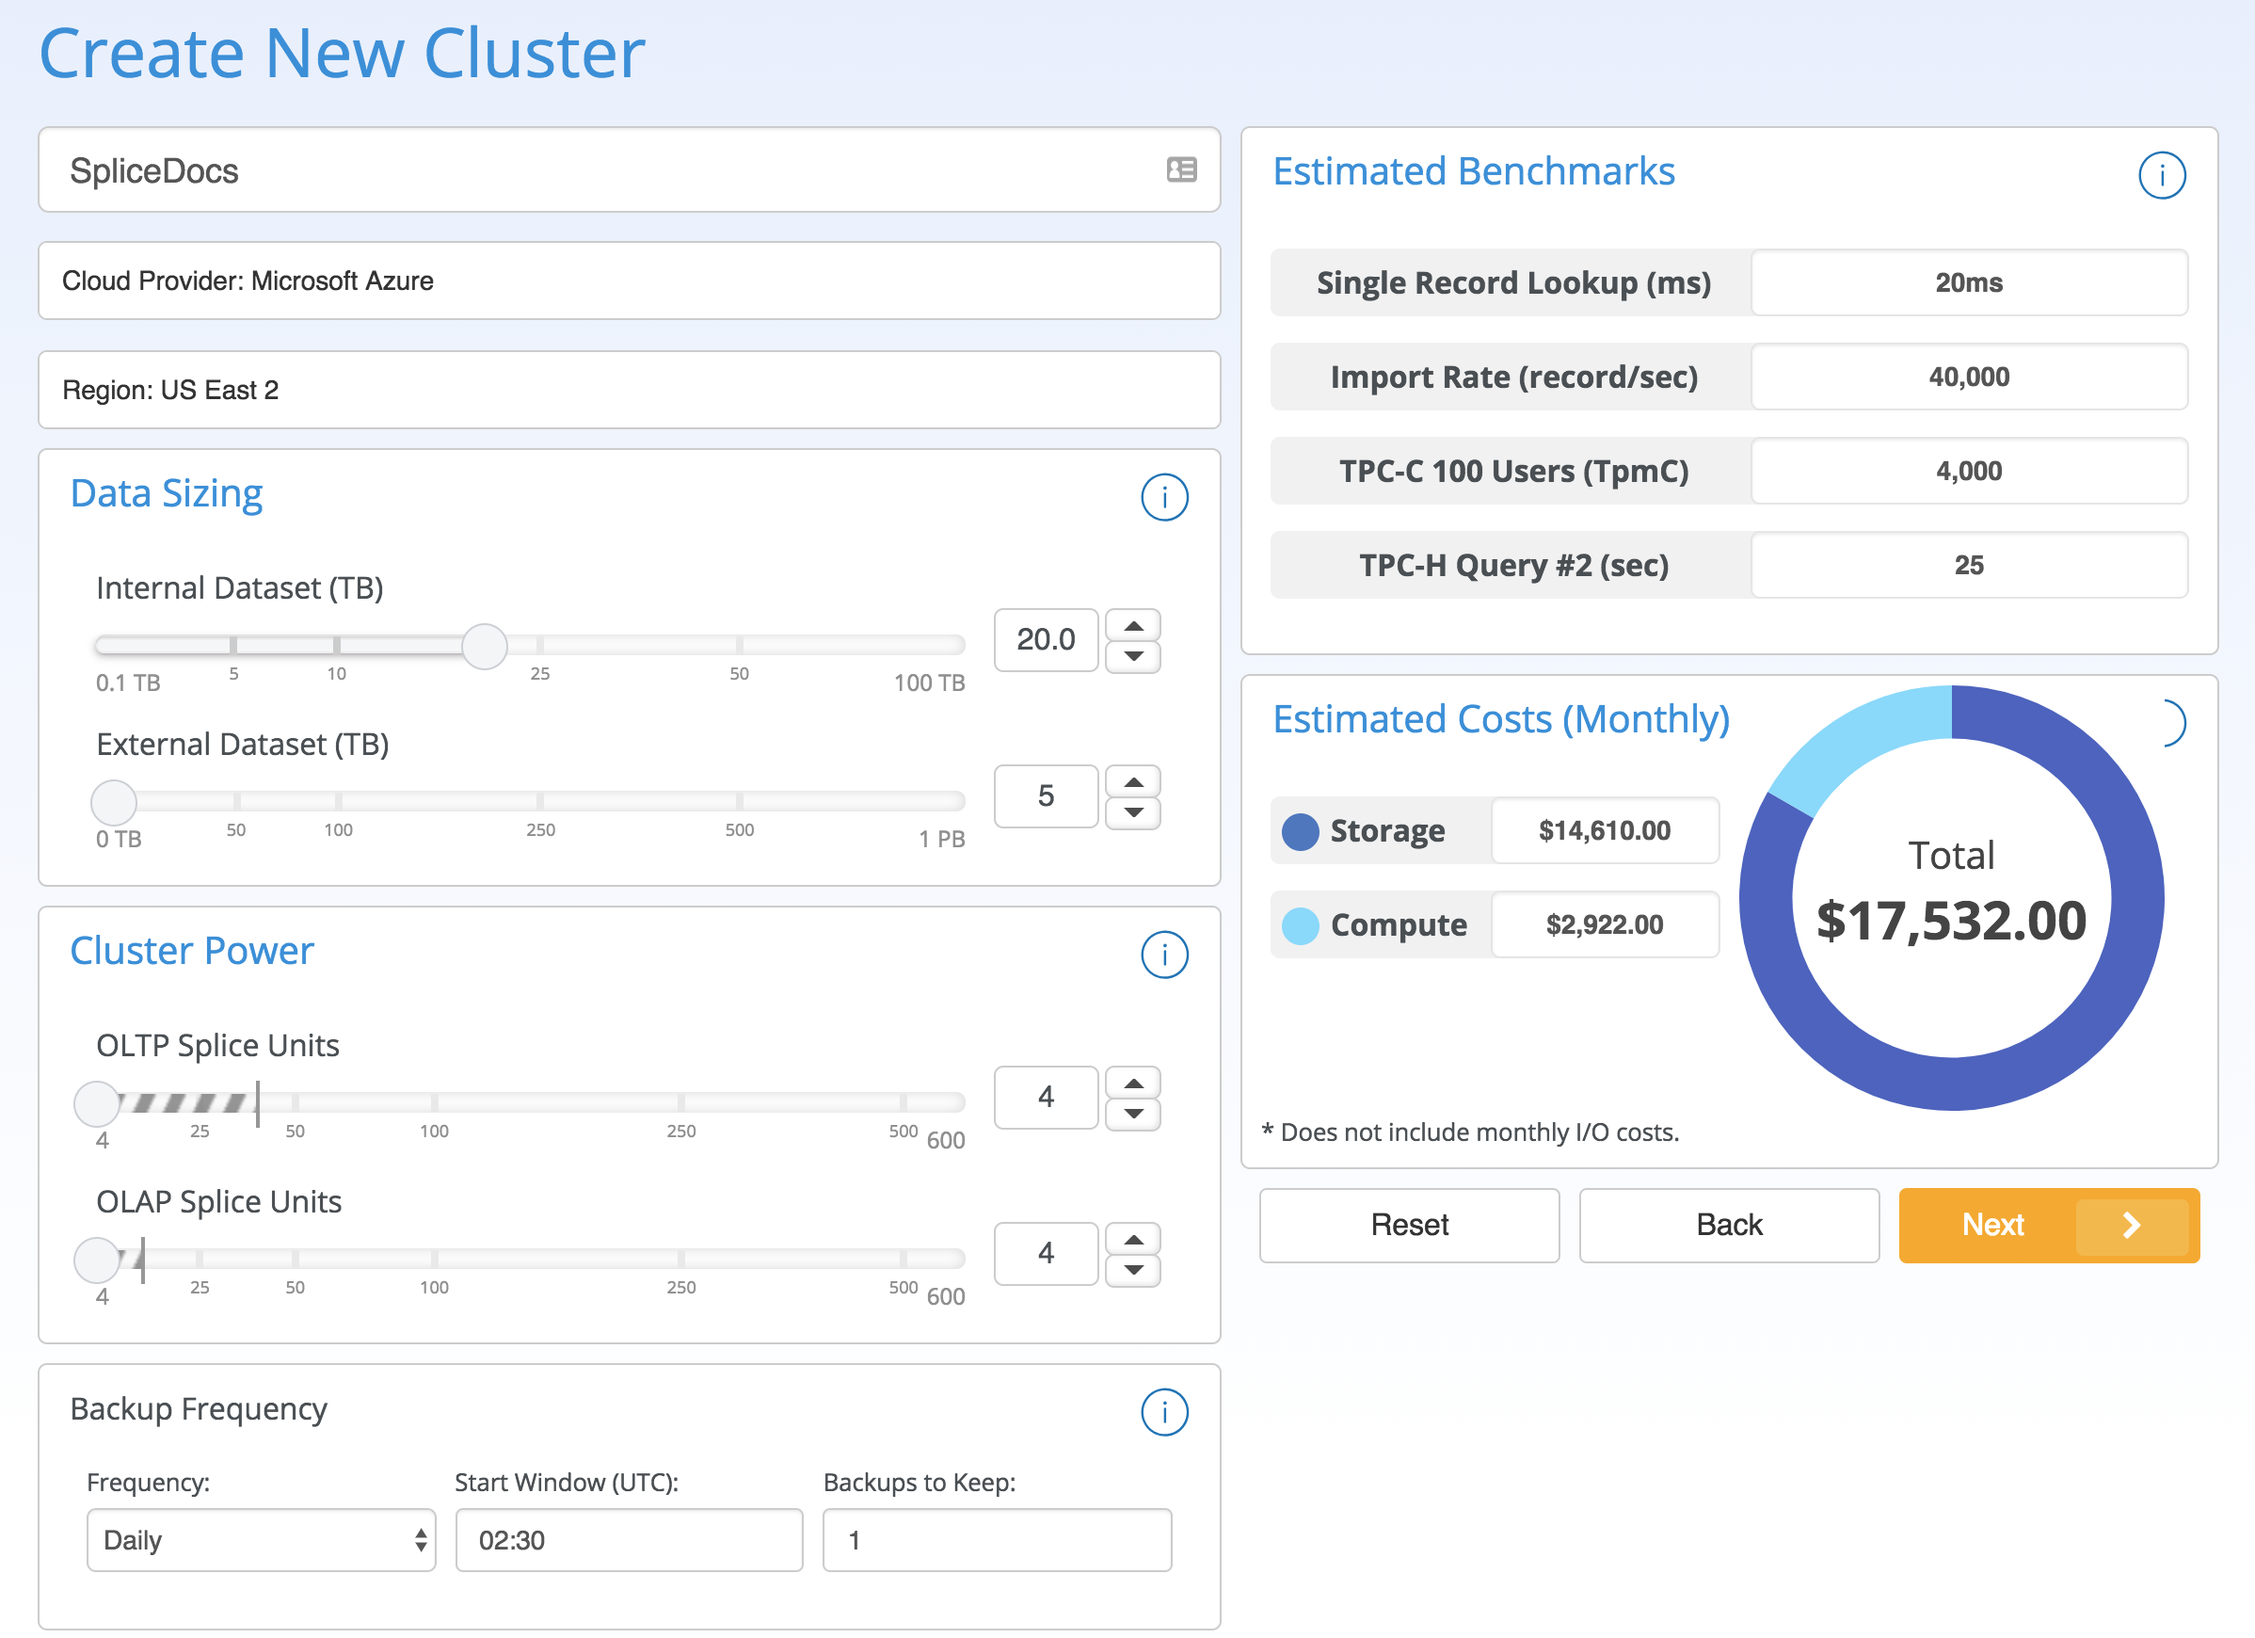
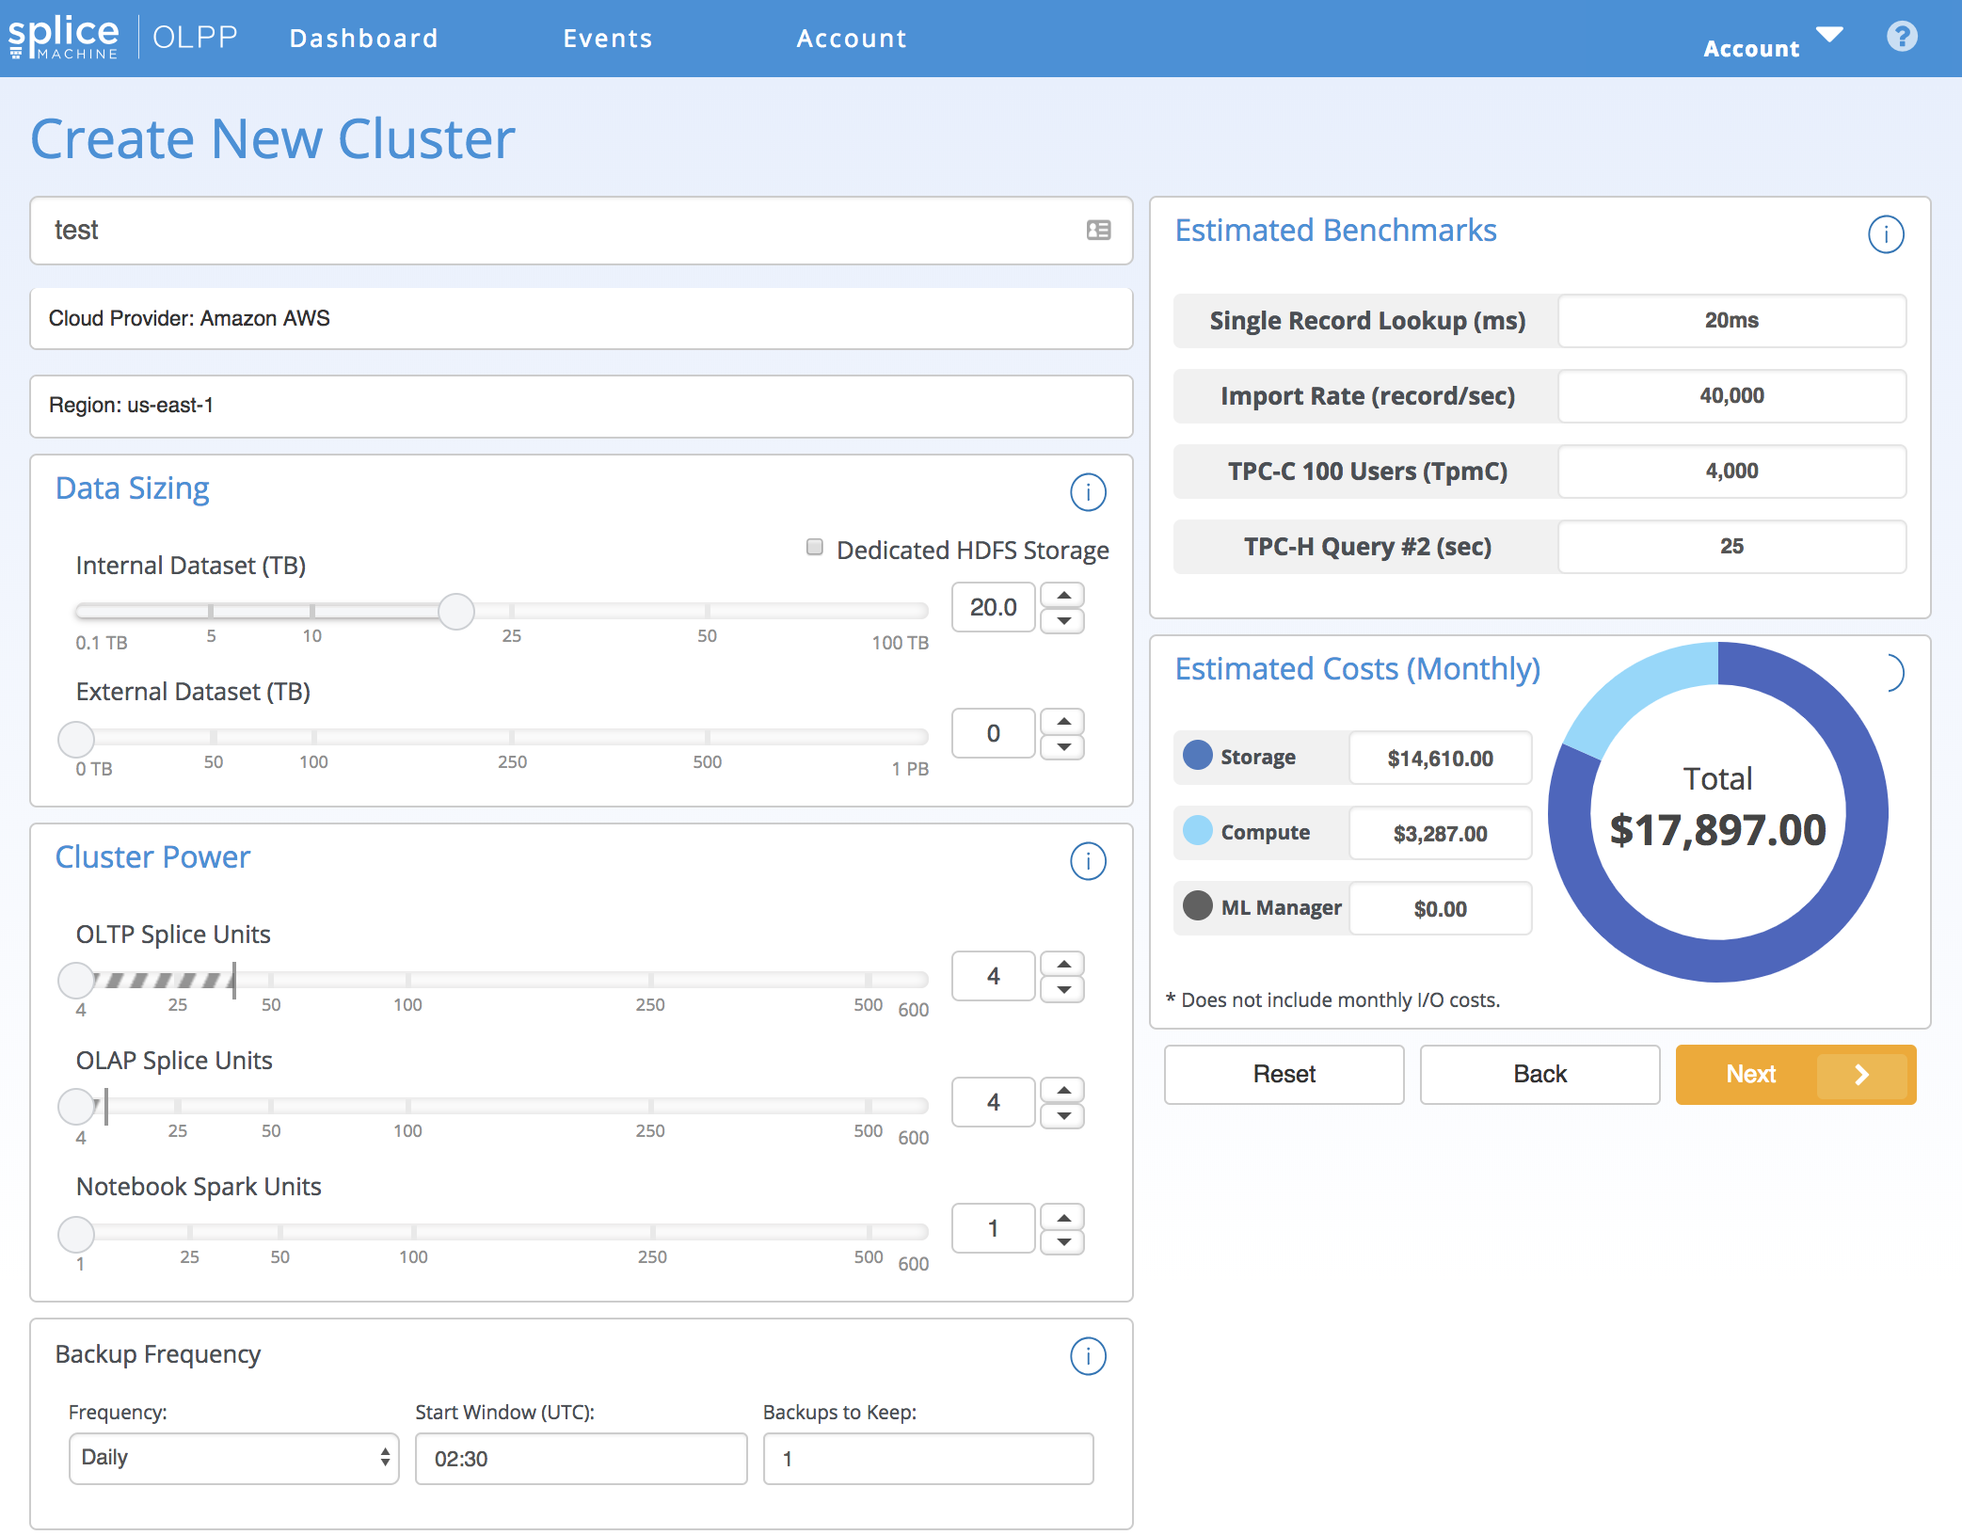
Started work on updating images and descriptions of modified UI

diff --git a/pages/DBaaS/CloudManager/InitialStartup.md b/pages/DBaaS/CloudManager/InitialStartup.md
@@ -26,7 +26,7 @@ to:
 
 1.  [Configure Cluster Parameters](#Configure) for data sizing, cluster
     power, and backup frequency.
-2.  [Configure Cluster Access](#Configur) for your users.
+2.  [Configure Cluster Access and Options](#Configur) for your users.
 3.  [Set Up Payment](#Payment) for your Splice Machine cluster.
 4.  Start Using Splice Machine!
 
@@ -55,6 +55,11 @@ Many of the components of the <span class="ConsoleLink">Create
 Cluster</span> screen, like most of our Cloud Manager screens, include
 small information buttons ![](images/infobutton.png){: .icon36} that you
 can click to display a small pop-up that describes the components.
+
+For example, here are the pop-ups from the <span class="ConsoleLink">Create New Cluster</span> screen:
+![](images/CreateClusterPopups.png "Create Cluster screen Pop-ups"){: .indentedTightSpacing}
+
+Click the button again to dismiss a pop-up.
 
 ### About the Cluster Parameters
 
@@ -99,16 +104,22 @@ future, so you're not stuck forever with your initial settings.
                        </td>
                    </tr>
                    <tr>
-                       <td rowspan="2" class="ConsoleLink">Cluster Power</td>
+                       <td rowspan="3" class="ConsoleLink">Cluster Power</td>
                        <td><code>OLTP Splice Units</code></td>
                        <td>
-                           <p>Move the slider to modify your estimate of how much processing power you need for transactional query processing. More OLTP units means more region servers in your cluster.</p>
+                           <p>Move the slider to modify your estimate of how much processing power you need for transactional activity, involving quick inserts, lookups, updates, and deletes. More OLTP units means more region servers in your cluster.</p>
                        </td>
                    </tr>
                    <tr>
                        <td><code>OLAP Splice Units</code></td>
                        <td>
-                           <p>Move the slider to modify your estimate of how much processing power you need for analytical query processing. More OLAP units means more Spark executors.</p>
+                           <p>Move the slider to modify your estimate of how much processing power you need for running longer queries, typically analytical queries. More OLAP units means more Spark executors.</p>
+                       </td>
+                   </tr>
+                   <tr>
+                       <td><code>Notebook Spark Units</code></td>
+                       <td>
+                           <p>Move the slider to modify your estimate of how many Spark units should be utilized by the Splice Machine Native Spark Datasource and other external uses of Spark libraries, such as MLlib.</p>
                        </td>
                    </tr>
                    <tr>
@@ -166,15 +177,15 @@ If you don't correct the required setting and attempt to advance to the
 message and will be unable to advance until you do correct it.
 {: .noteNote}
 
-## Configure Cluster Access   {#Configur}
+## Configure Cluster Access and Options   {#Configur}
 
 Once you've configured your cluster, click the <span
 class="CalloutFont">Next</span> button to display the <span
-class="ConsoleLink">Cluster Access</span> screen. The following image
+class="ConsoleLink">Cluster Access and Options</span> screen. The following image
 includes displays of the pop-up help information displays for the
 different access methods:
 
-![](images/CreateNewCluster4.png "Setting up VPC and/or IAM for a new
+![](images/CreateNewCluster4.png "Setting up access and options for a new
 cluster"){: .indentedTightSpacing}
 
 You can set your cluster up for access to your Amazon Virtual Private
@@ -194,7 +205,17 @@ For more information about Amazon IAM, see
 [https://aws.amazon.com/iam/][2]{: target="_blank"}.
 
 </div>
-After setting up any access methods, please confirm that you `accept our
+
+You can change the number of Zeppelin instances available on your cluster, and you can adjust
+how much Java memory is allocated for the Spark Interpreter in each instance. Multiple Zeppelin instances allow multiple users to develop and run notebooks independently.
+
+You can also add (at an additional cost) our *Machine Learning Manager*) to your
+cluster by clicking the <span class="CalloutFont">Enable button</span> in the <span
+class="ConsoleLink">ML Manager</span> section at the bottom of this screen. The Splice Machine ML Manager
+facilitates machine learning development by integrating MLflow, Amazon Sagemaker deployment, additional Machine Learning
+libraries, and our database together.
+
+After setting up any options and access methods, please confirm that you `accept our
 terms and conditions`, then click the <span
 class="CalloutFont">Launch</span> button, which will take you to the
 <span class="ConsoleLink">Payment</span> screen, unless you've

diff --git a/pages/DBaaS/CloudManager/Dashboard.md b/pages/DBaaS/CloudManager/Dashboard.md
@@ -15,40 +15,35 @@ folder: DBaaS/CloudManager
 This topic describes the actions you can initiate from your
 Splice Machine dashboard, which include:
 
-* [Creating a New Cluster](#creating)
 * [Viewing and Managing Your Clusters](#viewing)
+* [Creating a New Cluster](#creating)
+
+## Viewing and Managing Your Clusters   {#viewing}
+Your dashboard displays a list of the clusters that you've created, along with the status of each:
+![](images/DashboardView1.png){: .indentedTightSpacing}
+
+CPU, Memory, and Disk usage statistics are displayed for the currently selected cluster (in this case *mlmanager*). Simply click or tap a cluster name to display its usage information.
 
 ## Creating a New Cluster   {#creating}
+When you first log in to your Splice Machine Database Service, you'll see a large indication that you need to create a new cluster before you can do anything:
+
+![](images/InitialDashboard.png){: .indentedTightSpacing}
 
 Click the large <span class="ConsoleLink">Create New Cluster</span>
 button to start the process of creating a new cluster. This process,
 which requires just a few minutes, is described in detail in our
 [Creating a New Cluster](dbaas_cm_initialstartup.html) topic.
-
-![](images/InitialDashboard.png){: .indentedTightSpacing}
-
  
-
-## Viewing and Managing Your Clusters   {#viewing}
-
-When you create a new cluster, you land back on this Dashboard screen,
-which shows you the status of your current clusters. In the following
-image, we've created our first Splice Machine cluster, which is
-currently *Initializing*.
+After you've created a new cluster, you land back on this Dashboard screen,
+at which time the status of your new cluster will be *Initializing*.
 
 ![](images/JustCreatedDashboard.png){: .indentedTightSpacing}
 
-Once your new cluster is initialized, its status changes to *Active*,
-and you receive an email message from Splice Machine notifying you that
+After a few minutes, your new cluster will be initialized, its status will change to *Active*,
+and you'll receive an email message from Splice Machine notifying you that
 your cluster is ready. At that point, you can click the cluster name
 (e.g. *SpliceDocs1*) to use the *Cluster Management* screen for that
-cluster.
-
-If you have multiple clusters associated with your account, each will be
-listed in your dashboard. Simply click or tap a cluster name to jump to
-its management screen.
-{: .noteNote}
+cluster, as described in the [Managing a Cluster](dbaas_cm_managecluster.html) topic.
 
 </div>
 </section>
-

diff --git a/pages/DBaaS/CloudManager/ManageCluster.md b/pages/DBaaS/CloudManager/ManageCluster.md
@@ -27,7 +27,13 @@ You can access the <span class="ConsoleLink">Cluster Management</span>
 screen for any cluster in your Dashboard by simply clicking the name of
 the cluster.
 
-This screen displays information about the cluster, and includes three
+This screen includes three tabs that you can use to display information about the cluster:
+
+* The *Activity* tab displays usage statistics.
+* The *Events* tab displays (filtered) event information
+* The *Log Details* tab displays (filtered) log entries
+
+and includes three
 panels that display a graph of resource usage over time. There are three
 similar resource usage graphs displayed:
 
